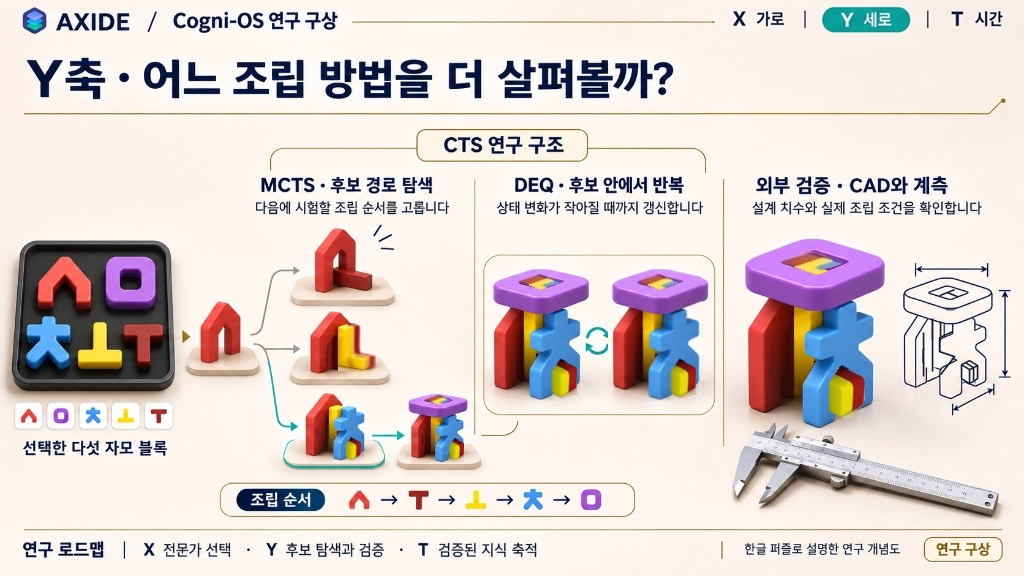
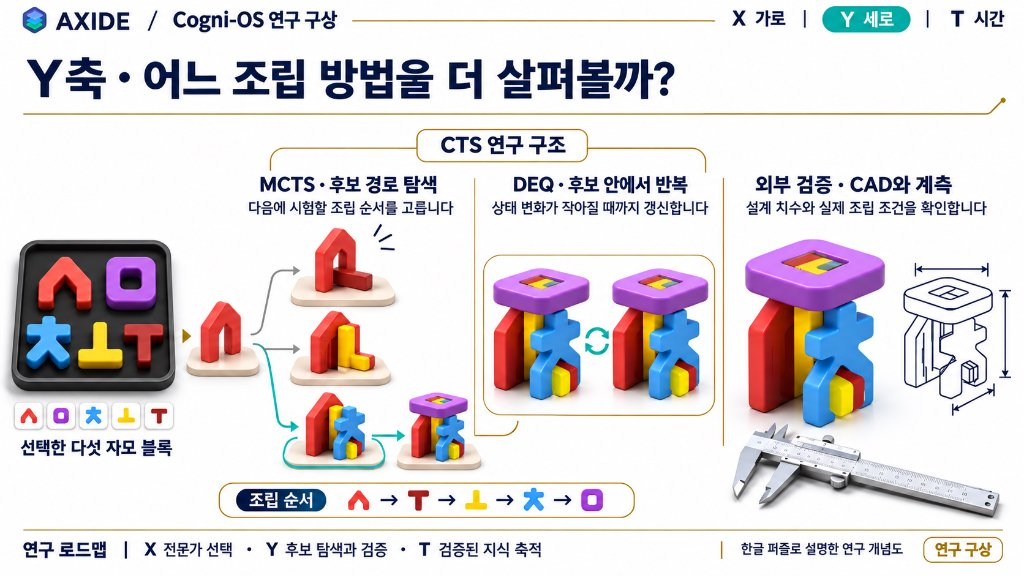
feat(story,service): update X-axis and Y-axis Hangul puzzle infographics with user-provided artwork

diff --git a/story.html b/story.html
@@ -443,13 +443,13 @@
                         </div>
                     </div>
                     <div class="mb-24">
-                        <div class="rounded-4 overflow-hidden" onclick="openStoryLightbox('assets/images/story/story-moe-ssd-llama-hangul-puzzle.jpg?v=20261107v201', 'X축 · MoE가 고른 전문가, 어디에서 가져올까? — AXIDE Edge0 / SSD-LLaMA 적용 구상 (SSD 전체 전문가 팩 · RAM 고정 메모리 · VRAM GPU 전문가 캐시)', false)" style="border: 1px solid rgba(16, 185, 129, 0.42); box-shadow: 0 20px 50px rgba(2, 6, 23, 0.55); background: #070b14; cursor: zoom-in;">
-                            <img src="assets/images/story/story-moe-ssd-llama-hangul-puzzle.jpg?v=20261107v201" alt="X축 · MoE가 고른 전문가, 어디에서 가져올까? — AXIDE Edge0 / SSD-LLaMA 적용 구상: 한글 자모 퍼즐 트레이(SSD 전체 전문가 팩 · RAM 고정 메모리 · VRAM GPU 전문가 캐시)에서 필요한 전문가 조각(ㅎ E9 + ㅏ E7 + ㄴ E2 = 한)을 조합하는 Cogni-OS 가로(x축) 탄생 원리" style="width: 100%; height: auto; display: block;" decoding="async" loading="lazy">
+                        <div class="rounded-4 overflow-hidden" onclick="openStoryLightbox('assets/images/story/story-moe-ssd-llama-hangul-puzzle.jpg?v=20261107_xy_user_v5', 'X축 · MoE가 고른 전문가, 어디에서 가져올까? — AXIDE Edge0 / SSD-LLaMA 적용 구상 (SSD 전체 전문가 팩 · RAM 고정 메모리 · VRAM GPU 전문가 캐시)', false)" style="border: 1px solid rgba(16, 185, 129, 0.42); box-shadow: 0 20px 50px rgba(2, 6, 23, 0.55); background: #070b14; cursor: zoom-in;">
+                            <img src="assets/images/story/story-moe-ssd-llama-hangul-puzzle.jpg?v=20261107_xy_user_v5" alt="X축 · MoE가 고른 전문가, 어디에서 가져올까? — AXIDE Edge0 / SSD-LLaMA 적용 구상: 한글 자모 퍼즐 트레이(SSD 전체 전문가 팩 · RAM 고정 메모리 · VRAM GPU 전문가 캐시)에서 필요한 전문가 조각(ㅎ E9 + ㅏ E7 + ㄴ E2 = 한)을 조합하는 Cogni-OS 가로(x축) 탄생 원리" style="width: 100%; height: auto; display: block;" decoding="async" loading="lazy">
                         </div>
                     </div>
                     <div class="mb-24">
-                        <div class="rounded-4 overflow-hidden" onclick="openStoryLightbox('assets/images/story/story-y-axis-cts-deq-hangul-assembly.jpg?v=20261107_aa_smooth_v4', 'Y축 · 어느 조립 방법을 더 살펴볼까? — AXIDE / Cogni-OS 연구 구상 (MCTS 후보 경로 탐색 · DEQ 후보 안 반복 · 외부 검증 CAD와 계측)', false)" style="border: 1px solid rgba(20, 184, 166, 0.45); box-shadow: 0 20px 50px rgba(2, 6, 23, 0.55); background: #070b14; cursor: zoom-in;">
-                            <img src="assets/images/story/story-y-axis-cts-deq-hangul-assembly.jpg?v=20261107_aa_smooth_v4" alt="Y축 · 어느 조립 방법을 더 살펴볼까? — AXIDE / Cogni-OS 연구 구상: 선택한 다섯 자모 블록(ㅅ·ㅁ·ㅊ·ㅗ·ㅜ, 조립 순서 ㅅ→ㅜ→ㅗ→ㅊ→ㅁ)으로 MCTS 후보 경로 탐색, DEQ 후보 안에서 반복 수렴, 외부 검증(CAD와 캘리퍼스 계측)까지 이어지는 CTS 연구 구조" style="width: 100%; height: auto; display: block;" decoding="async" loading="lazy">
+                        <div class="rounded-4 overflow-hidden" onclick="openStoryLightbox('assets/images/story/story-y-axis-cts-deq-hangul-assembly.jpg?v=20261107_xy_user_v5', 'Y축 · 어느 조립 방법을 더 살펴볼까? — AXIDE / Cogni-OS 연구 구상 (MCTS 후보 경로 탐색 · DEQ 후보 안 반복 · 외부 검증 CAD와 계측)', false)" style="border: 1px solid rgba(20, 184, 166, 0.45); box-shadow: 0 20px 50px rgba(2, 6, 23, 0.55); background: #070b14; cursor: zoom-in;">
+                            <img src="assets/images/story/story-y-axis-cts-deq-hangul-assembly.jpg?v=20261107_xy_user_v5" alt="Y축 · 어느 조립 방법을 더 살펴볼까? — AXIDE / Cogni-OS 연구 구상: 선택한 다섯 자모 블록(ㅅ·ㅁ·ㅊ·ㅗ·ㅜ, 조립 순서 ㅅ→ㅜ→ㅗ→ㅊ→ㅁ)으로 MCTS 후보 경로 탐색, DEQ 후보 안에서 반복 수렴, 외부 검증(CAD와 캘리퍼스 계측)까지 이어지는 CTS 연구 구조" style="width: 100%; height: auto; display: block;" decoding="async" loading="lazy">
                         </div>
                     </div>
                     <div class="mb-24">

diff --git a/service.html b/service.html
@@ -390,13 +390,13 @@
                             </div>
                         </div>
                         <div class="col-lg-6">
-                            <div class="rounded-4 overflow-hidden h-100" onclick="openStoryLightbox('assets/images/story/story-moe-ssd-llama-hangul-puzzle.jpg?v=20261107v201', 'X축 · MoE가 고른 전문가, 어디에서 가져올까? — AXIDE Edge0 / SSD-LLaMA 적용 구상 (SSD 전체 전문가 팩 · RAM 고정 메모리 · VRAM GPU 전문가 캐시)', false)" style="border: 1px solid rgba(16, 185, 129, 0.42); box-shadow: 0 20px 50px rgba(2, 6, 23, 0.55); background: #070b14; cursor: zoom-in;">
-                                <img src="assets/images/story/story-moe-ssd-llama-hangul-puzzle.jpg?v=20261107v201" alt="X축 · MoE가 고른 전문가, 어디에서 가져올까? — AXIDE Edge0 / SSD-LLaMA 적용 구상: 한글 자모 퍼즐 트레이(SSD 전체 전문가 팩 · RAM 고정 메모리 · VRAM GPU 전문가 캐시)에서 필요한 전문가 조각(ㅎ E9 + ㅏ E7 + ㄴ E2 = 한)을 조합하는 Cogni-OS 가로(x축) 탄생 원리" style="width: 100%; height: auto; display: block;" decoding="async" loading="lazy">
+                            <div class="rounded-4 overflow-hidden h-100" onclick="openStoryLightbox('assets/images/story/story-moe-ssd-llama-hangul-puzzle.jpg?v=20261107_xy_user_v5', 'X축 · MoE가 고른 전문가, 어디에서 가져올까? — AXIDE Edge0 / SSD-LLaMA 적용 구상 (SSD 전체 전문가 팩 · RAM 고정 메모리 · VRAM GPU 전문가 캐시)', false)" style="border: 1px solid rgba(16, 185, 129, 0.42); box-shadow: 0 20px 50px rgba(2, 6, 23, 0.55); background: #070b14; cursor: zoom-in;">
+                                <img src="assets/images/story/story-moe-ssd-llama-hangul-puzzle.jpg?v=20261107_xy_user_v5" alt="X축 · MoE가 고른 전문가, 어디에서 가져올까? — AXIDE Edge0 / SSD-LLaMA 적용 구상: 한글 자모 퍼즐 트레이(SSD 전체 전문가 팩 · RAM 고정 메모리 · VRAM GPU 전문가 캐시)에서 필요한 전문가 조각(ㅎ E9 + ㅏ E7 + ㄴ E2 = 한)을 조합하는 Cogni-OS 가로(x축) 탄생 원리" style="width: 100%; height: auto; display: block;" decoding="async" loading="lazy">
                             </div>
                         </div>
                         <div class="col-lg-6">
-                            <div class="rounded-4 overflow-hidden h-100" onclick="openStoryLightbox('assets/images/story/story-y-axis-cts-deq-hangul-assembly.jpg?v=20261107_aa_smooth_v4', 'Y축 · 어느 조립 방법을 더 살펴볼까? — AXIDE / Cogni-OS 연구 구상 (MCTS 후보 경로 탐색 · DEQ 후보 안 반복 · 외부 검증 CAD와 계측)', false)" style="border: 1px solid rgba(20, 184, 166, 0.45); box-shadow: 0 20px 50px rgba(2, 6, 23, 0.55); background: #070b14; cursor: zoom-in;">
-                                <img src="assets/images/story/story-y-axis-cts-deq-hangul-assembly.jpg?v=20261107_aa_smooth_v4" alt="Y축 · 어느 조립 방법을 더 살펴볼까? — AXIDE / Cogni-OS 연구 구상: X에서 고른 자모 블록으로 MCTS 후보 경로 탐색, DEQ 후보 안에서 반복 수렴, 외부 검증(CAD와 계측)까지 이어지는 CTS 연구 구조" style="width: 100%; height: auto; display: block;" decoding="async" loading="lazy">
+                            <div class="rounded-4 overflow-hidden h-100" onclick="openStoryLightbox('assets/images/story/story-y-axis-cts-deq-hangul-assembly.jpg?v=20261107_xy_user_v5', 'Y축 · 어느 조립 방법을 더 살펴볼까? — AXIDE / Cogni-OS 연구 구상 (MCTS 후보 경로 탐색 · DEQ 후보 안 반복 · 외부 검증 CAD와 계측)', false)" style="border: 1px solid rgba(20, 184, 166, 0.45); box-shadow: 0 20px 50px rgba(2, 6, 23, 0.55); background: #070b14; cursor: zoom-in;">
+                                <img src="assets/images/story/story-y-axis-cts-deq-hangul-assembly.jpg?v=20261107_xy_user_v5" alt="Y축 · 어느 조립 방법을 더 살펴볼까? — AXIDE / Cogni-OS 연구 구상: X에서 고른 자모 블록으로 MCTS 후보 경로 탐색, DEQ 후보 안에서 반복 수렴, 외부 검증(CAD와 계측)까지 이어지는 CTS 연구 구조" style="width: 100%; height: auto; display: block;" decoding="async" loading="lazy">
                             </div>
                         </div>
                         <div class="col-lg-6">
